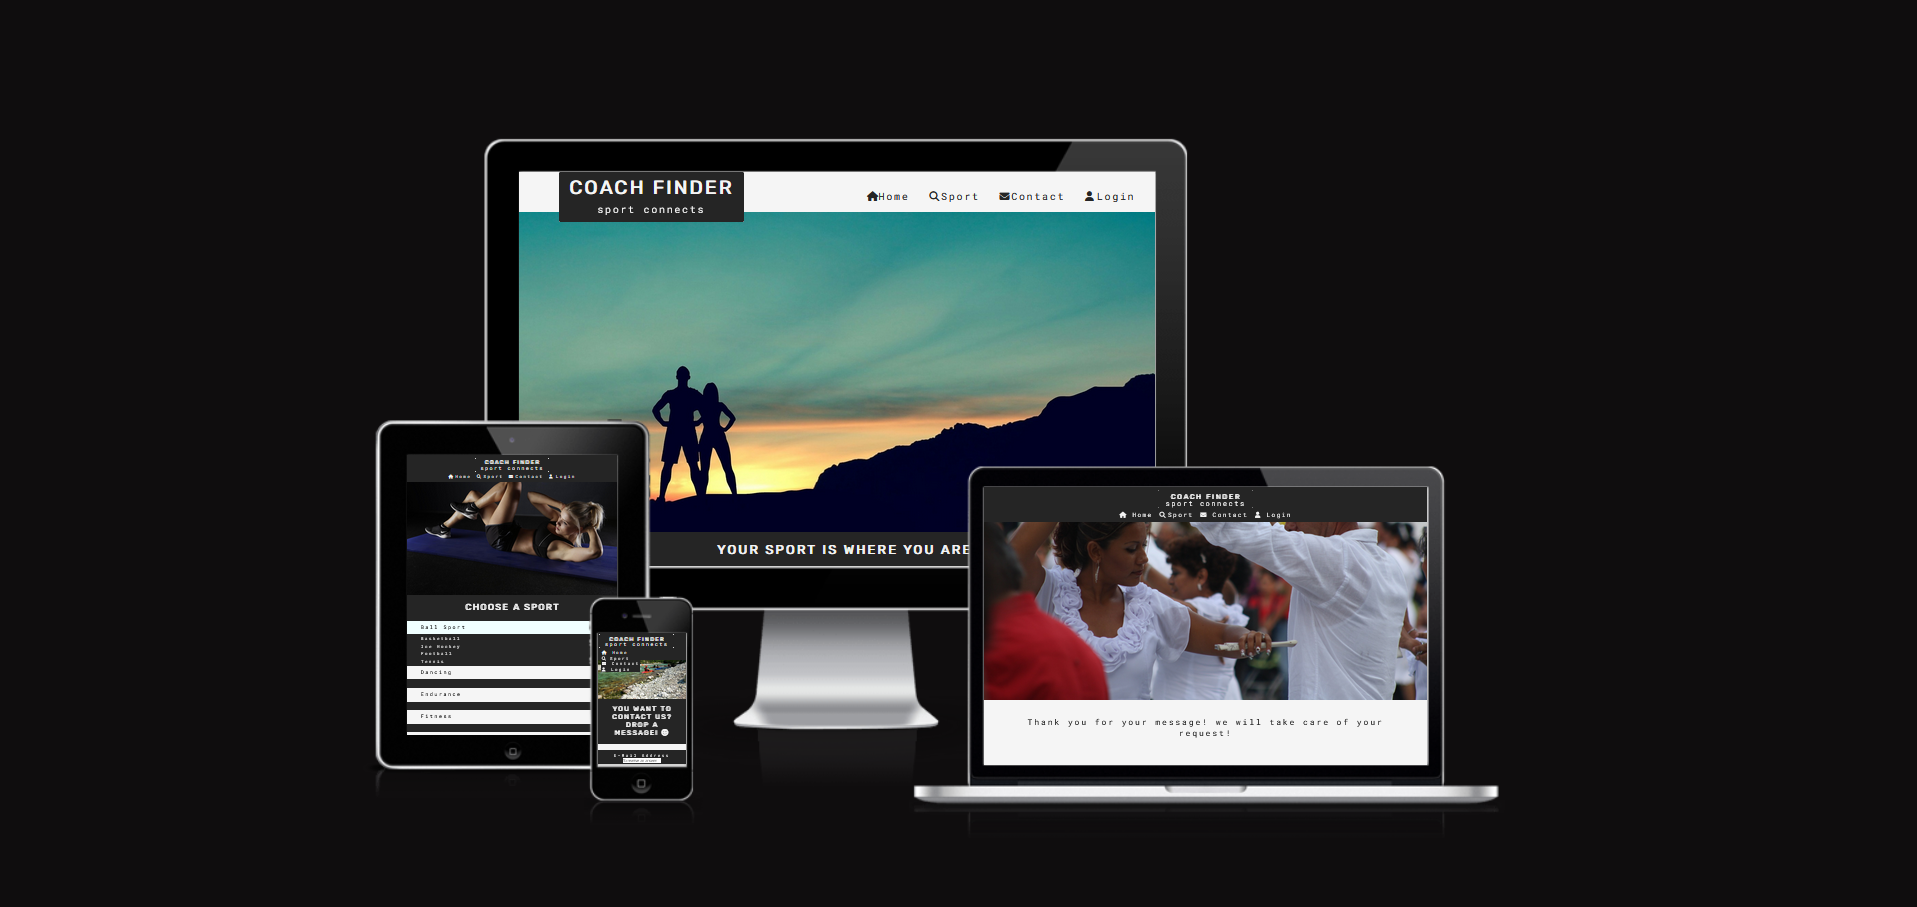
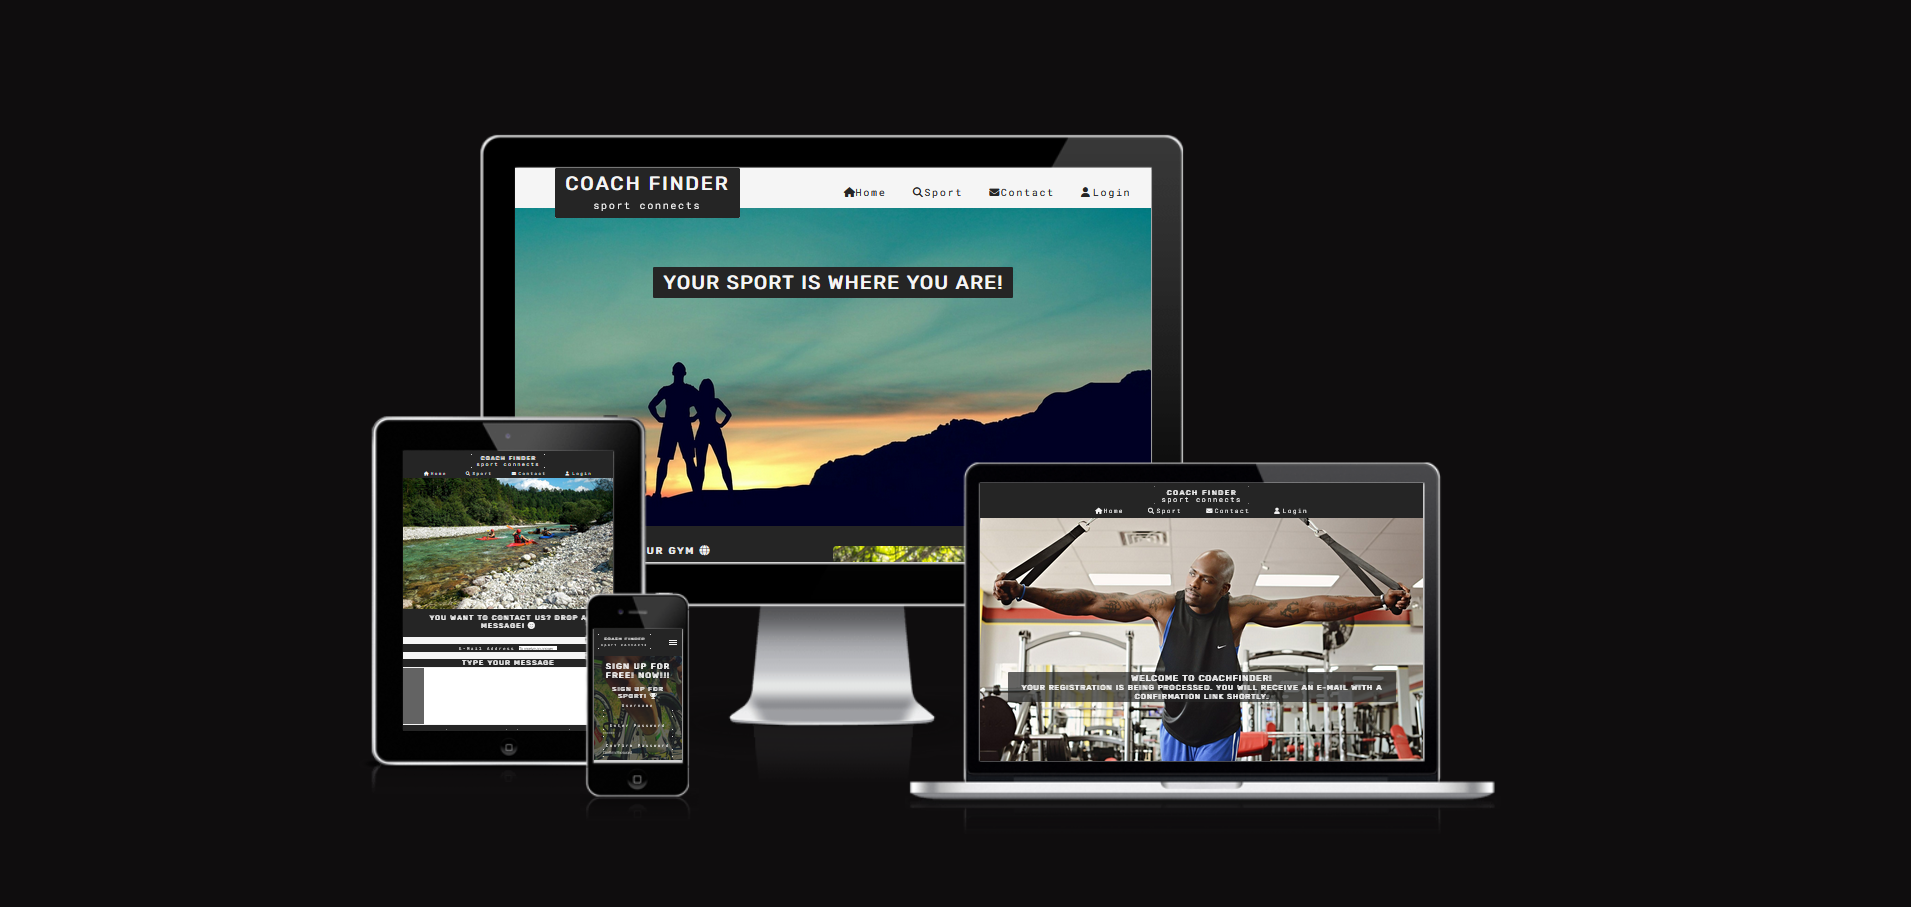
filled space for mq thx.html

Changed region(s): [[0.1852, 0.1235, 0.8027, 0.8953], [0.3396, 0.2778, 0.5557, 0.3396], [0.5557, 0.4013, 0.6175, 0.4322]]

diff --git a/assets/css/style.css b/assets/css/style.css
@@ -1221,7 +1221,7 @@ footer i {
         padding: 25px; */
         top: 350px;
         /* display: inline-grid; */
-        width: 90%;
+        /* width: 90%; */
         font-size: 80%;
     }
 
@@ -1357,7 +1357,8 @@ footer i {
 
     footer p {
         margin-bottom: -40px;
-        padding-bottom: 0px;
+        padding: unset;
+        padding-top: 15px;
     }
 
     footer ul {
@@ -1424,8 +1425,8 @@ footer i {
       margin: 0;
       padding: 0.5em 0;
       width: 100%;
-      color: white;
-      background-color: #222;
+      color: whitesmoke;
+      background-color: rgb(37, 37, 37);
     }
   
     .menu2 > li:not(:last-child) {
@@ -1435,11 +1436,21 @@ footer i {
     #thank-you-text {
         /* height: 250px; */
         /* padding: 45px 50px; */
-        justify-content: center;
+        /* justify-content: center;
         display: grid;
         top: 300px;
-        font-size: 70%;
-}
+        font-size: 70%; */
+        margin: unset;
+        margin-top: unset;
+        top: unset;
+        position: relative;
+        margin-top: 5px;
+        border-radius: inherit;
+        padding: 25px;
+        background-color: rgb(37, 37, 37);
+        border-bottom: 1px solid whitesmoke;
+        border-top: 1px solid whitesmoke;
+    }
 }
 /********************************MQ 500px************************************************/
   @media (max-width: 500px) {
@@ -1452,6 +1463,13 @@ footer i {
     .sport-btn span {
         float: right;
         padding-right: 10px;
+    }
+
+    #cover-text {
+        font-size: x-small;
+        height: fit-content;
+        width: fit-content;
+        top: 240px;
     }
 
     #contact-info {
@@ -1504,17 +1522,18 @@ footer i {
     }
 
     #thank-you-text {
-        justify-content: center;
+        /* justify-content: center;
         display: grid;
         font-size: xx-small;
-        height: unset;
+        height: unset; */
         /* height: 130px; */
-        padding: 20px;
+        /* padding: 20px;
         justify-content: center;
         font-size: 40%;
         padding: 5px;
         top: 290px;
-        width: 100%;
+        width: 100%; */
+        font-size: 70%;
     }
 
     .thx-img {
@@ -1569,9 +1588,9 @@ footer i {
         padding-left: 10px;
     }
 
-    #thank-you-text {
+    /* #thank-you-text {
         top: 250px;
-    }
+    } */
 
     .ball-content-specific-sport{
         font-size: 70%;

diff --git a/thx.html b/thx.html
@@ -74,6 +74,12 @@
 
     <section id="start-img-index">
         <img src="assets/images/fitness-gca94814df_1920.jpg" class="thx-img" alt="Trainer Man" style = "width:100%; height: auto">
+        <!-- <div id="thank-you-text">
+            <h1>Welcome to Coachfinder!</h1>
+            <h2>Your registration is being processed. You will receive an e-mail with a confirmation link shortly.</h2>
+        </div> -->
+    </section>
+    <section>
         <div id="thank-you-text">
             <h1>Welcome to Coachfinder!</h1>
             <h2>Your registration is being processed. You will receive an e-mail with a confirmation link shortly.</h2>
